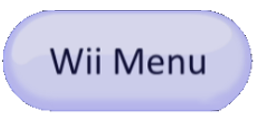
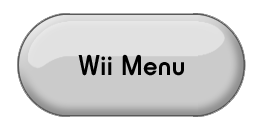
updated Home Screen graphics, courtesy of pretender13

diff --git a/CoverFlow/source/homemenu.c b/CoverFlow/source/homemenu.c
@@ -84,7 +84,7 @@ void HomeMenu_Show()
 	wiiMenuButton.x = 28-400;
 	wiiMenuButton.y = 180;
 	loaderButton.x  = 355+400;
-	loaderButton.y = 170;
+	loaderButton.y = 180;
 	
 	wiimoteButton.x = 64;
 	wiimoteButton.y = 400 + 400;
